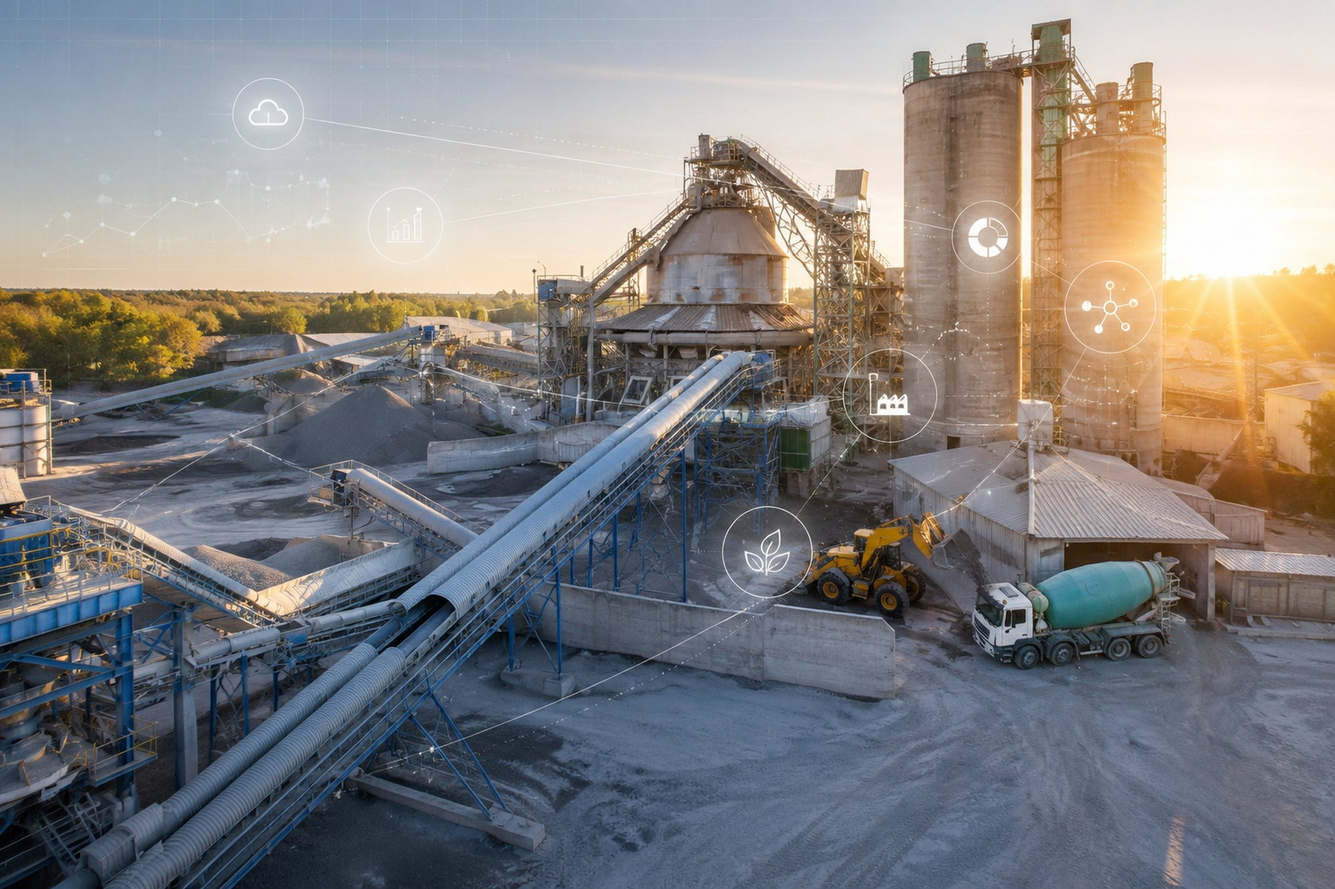
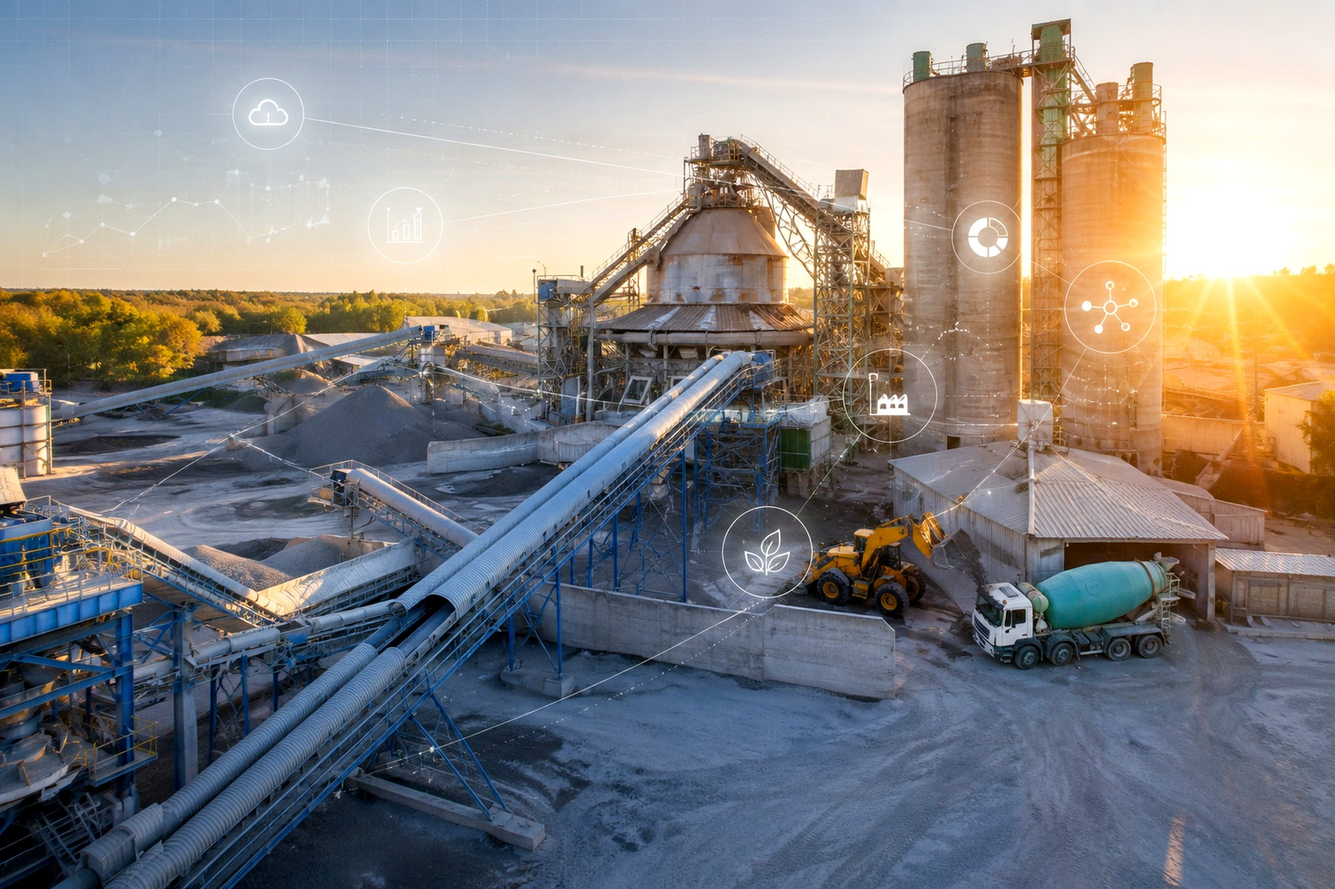
Hero: clearer photo on the right, deeper cream on the left
Punch up the banner colour and contrast, hold the cream solid to 36%,
then clear the veil entirely by 76% so the right half is pure photo.

diff --git a/draft/cement-landing.html b/draft/cement-landing.html
@@ -195,7 +195,7 @@
     }
 
     /* cement solution hero */
-    .sol-hero{background-image:linear-gradient(100deg,#FFF6E2 0%,#FFF6E2 30%,rgba(255,246,226,.97) 42%,rgba(255,246,226,.86) 52%,rgba(255,245,222,.60) 63%,rgba(255,244,218,.32) 75%,rgba(255,243,216,.12) 88%,rgba(255,242,214,.03) 100%),url('cement-banner.jpg');background-size:cover,cover;background-position:center,center right;background-repeat:no-repeat;min-height:620px;padding:90px 0 80px;position:relative;overflow:hidden;}
+    .sol-hero{background-image:linear-gradient(100deg,#FFF6E2 0%,#FFF6E2 36%,rgba(255,246,226,.94) 45%,rgba(255,246,226,.72) 53%,rgba(255,245,222,.42) 61%,rgba(255,244,218,.18) 68%,rgba(255,243,216,0) 76%),url('cement-banner.jpg');background-size:cover,cover;background-position:center,center right;background-repeat:no-repeat;min-height:620px;padding:90px 0 80px;position:relative;overflow:hidden;}
     .sol-hero canvas{position:absolute;top:0;left:0;width:100%;height:100%;pointer-events:none;z-index:0;}
     .sol-hero-inner{position:relative;z-index:2;max-width:780px;}
     .sol-tag{display:inline-flex;align-items:center;gap:8px;background:rgba(224,100,30,0.12);border:1px solid rgba(224,100,30,0.25);border-radius:100px;padding:6px 16px;font-size:12px;font-weight:700;letter-spacing:1.5px;text-transform:uppercase;color:#9A7209;margin-bottom:24px;}
